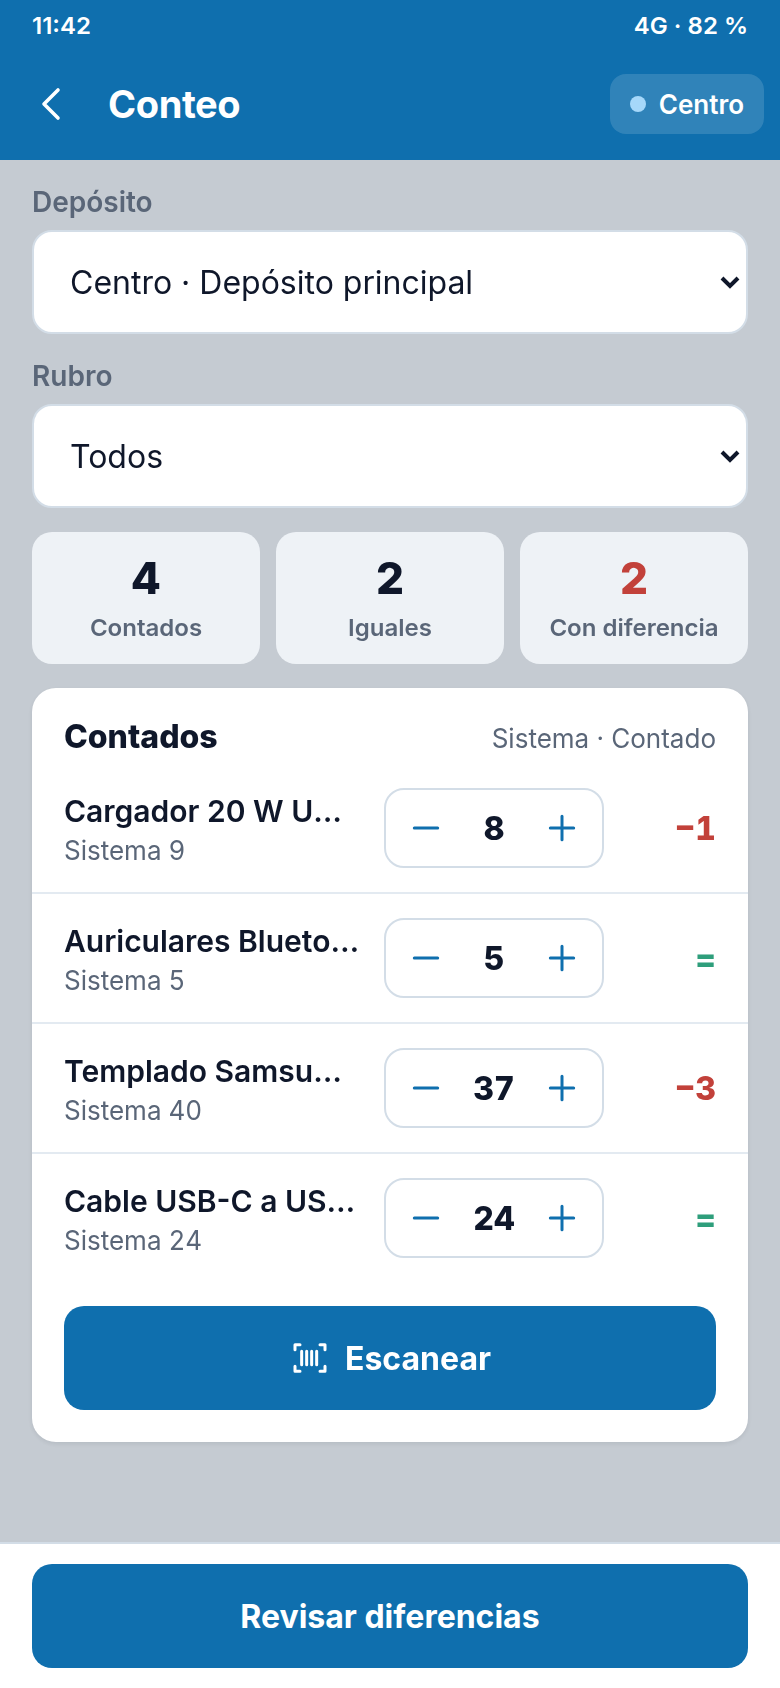
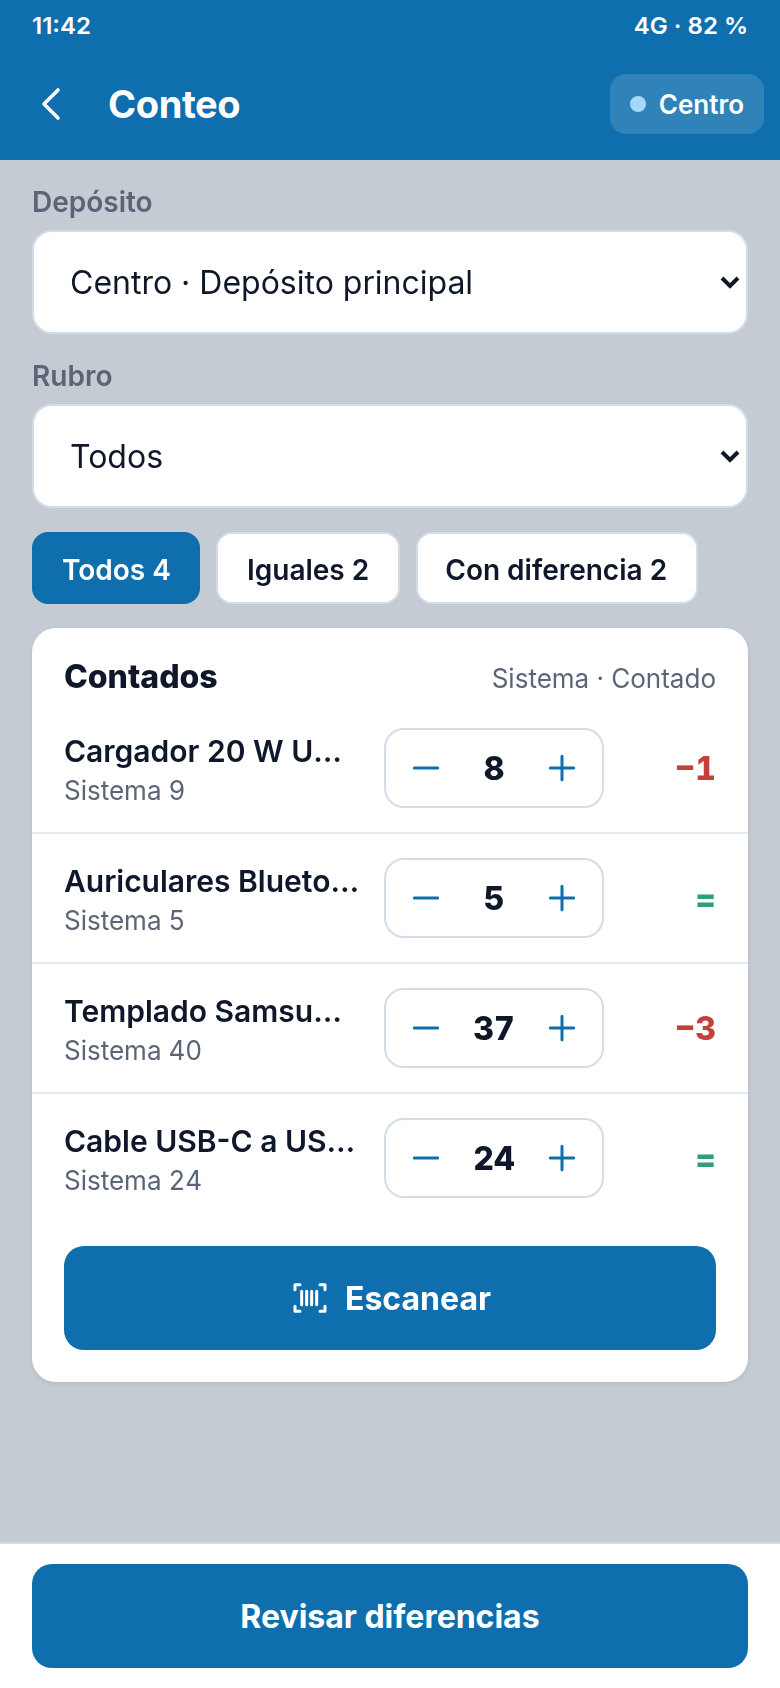
Maqueta cargador: datos de API a la vista, conteo con chips en lugar de tarjetas, accesos del cajero
Claude-Session: https://claude.ai/code/session_01Ke5ZfkRgTyinFjhVPQHDqU

Changed region(s): [[0.0308, 0.3081, 0.9846, 0.8626]]

diff --git a/docs/diseno-cargador/maqueta.html b/docs/diseno-cargador/maqueta.html
@@ -284,7 +284,8 @@ textarea.inp{height:88px;padding:12px 14px;resize:none;font-size:16px}
 .dif-ok{color:var(--verde)}
 
 /* ================= Cargador: piezas nuevas ================= */
-.ctl{width:300px}
+.ctl{width:300px;max-height:calc(100vh - 48px);overflow:auto}
+.idx{max-height:none}
 .idx button{display:flex;align-items:center;gap:6px}
 .idx button span{flex:1}
 .tag{display:inline-flex;align-items:center;height:18px;padding:0 6px;border-radius:4px;font-size:10px;font-weight:800;letter-spacing:.03em;text-transform:uppercase;flex:none}
@@ -353,10 +354,6 @@ textarea.inp{height:88px;padding:12px 14px;resize:none;font-size:16px}
 .ln .nota{margin-top:8px;height:40px;font-size:15px;border-radius:8px}
 .prog{height:8px;border-radius:4px;background:var(--pista);overflow:hidden;margin-top:10px}
 .prog s{display:block;height:100%;background:var(--r1);border-radius:4px}
-.cmp-cc{display:grid;grid-template-columns:repeat(3,1fr);gap:8px;text-align:center}
-.cmp-cc div{background:var(--variante);border-radius:10px;padding:10px 4px}
-.cmp-cc b{display:block;font-size:22px;font-weight:800}
-.cmp-cc span{font-size:12px;color:var(--suave);font-weight:600}
 .dif{font-weight:800;font-size:16px;min-width:44px;text-align:right}
 
 /* QR de la derivación */
@@ -373,6 +370,7 @@ textarea.inp{height:88px;padding:12px 14px;resize:none;font-size:16px}
 /* Accesos de Inicio */
 .accesos{display:grid;grid-template-columns:1fr 1fr;gap:8px}
 .acc{display:flex;flex-direction:column;align-items:flex-start;gap:10px;min-height:92px;padding:14px;background:var(--pieza);border-radius:12px;box-shadow:var(--sombra);text-align:left;position:relative}
+[data-rol="cajero"] .accesos .acc:last-child{grid-column:1/-1}
 .acc b{font-size:15px;font-weight:700}
 .acc .ico{width:36px;height:36px}
 .acc .bd{position:absolute;top:12px;right:12px;min-width:22px;height:22px;border-radius:11px;background:var(--rojo);color:#fff;font-size:12px;font-weight:800;display:grid;place-items:center;padding:0 6px}
@@ -435,8 +433,8 @@ textarea.inp{height:88px;padding:12px 14px;resize:none;font-size:16px}
     <div class="g"><b>Rol</b><div class="seg" data-k="rol"><button data-v="admin" class="on">Dueño</button><button data-v="cajero">Cajero</button></div></div>
     <div class="g"><b>Plataforma</b><div class="seg" data-k="plat"><button data-v="web" class="on">Webapp</button><button data-v="apk">APK</button></div></div>
     <div class="g"><b>Lectura simulada del lector</b><div class="seg tres" data-k="lect"><button data-v="producto" class="on">Producto</button><button data-v="nuevo">Código nuevo</button><button data-v="qr">QR derivación</button></div></div>
-    <div class="g ix"><b>Pantallas</b><div class="idx" id="idx"></div></div>
     <div class="g ix"><b>Datos de esta pantalla</b><ul class="apibox" id="api"></ul></div>
+    <div class="g ix"><b>Pantallas</b><div class="idx" id="idx"></div></div>
   </aside>
 
   <div class="tel" id="tel" data-rol="admin" data-plat="web">
@@ -672,7 +670,7 @@ textarea.inp{height:88px;padding:12px 14px;resize:none;font-size:16px}
       <div class="cu">
         <div class="cmp"><label>Depósito</label><select class="inp" style="font-size:16px"><option>Centro · Depósito principal</option></select></div>
         <div class="cmp"><label>Rubro</label><select class="inp" style="font-size:16px"><option>Todos</option><option>Cargadores</option><option>Cables</option><option>Audio</option></select></div>
-        <div class="cmp-cc"><div><b class="num" data-c-n>0</b><span>Contados</span></div><div><b class="num" data-c-ok>0</b><span>Iguales</span></div><div><b class="num" data-c-dif style="color:var(--rojo)">0</b><span>Con diferencia</span></div></div>
+        <div class="chips" id="chipsC"></div>
         <div class="pz">
           <div class="pz-h"><h3>Contados</h3><span>Sistema · Contado</span></div>
           <div id="lineasC"></div>
@@ -946,9 +944,10 @@ textarea.inp{height:88px;padding:12px 14px;resize:none;font-size:16px}
     let ok = 0, dif = 0;
     const filas = [];
     st.conteo.forEach((c, id) => { const p = P(id); const d = c - p.s; d ? dif++ : ok++;
+      if (st.filtroC === "ok" && d) return; if (st.filtroC === "dif" && !d) return;
       filas.push(`<div class="ln"><span class="tx"><b>${p.n}</b><small class="num">Sistema ${p.s}</small></span><span class="stp"><button data-cq="${id}" data-d="-1" aria-label="Menos"><svg class="i s20"><use href="#menos"/></svg></button><span class="num">${c}</span><button data-cq="${id}" data-d="1" aria-label="Más"><svg class="i s20"><use href="#mas1"/></svg></button></span><span class="dif num" style="color:${d ? (d < 0 ? "var(--rojo)" : "var(--ocre)") : "var(--verde)"}">${d ? (d > 0 ? "+" : "−") + Math.abs(d) : "="}</span></div>`); });
     $("#lineasC").innerHTML = filas.join("") || `<div class="ln"><span class="tx"><small>Sin productos contados</small></span></div>`;
-    $("[data-c-n]").textContent = st.conteo.size; $("[data-c-ok]").textContent = ok; $("[data-c-dif]").textContent = dif;
+    $("#chipsC").innerHTML = [["", "Todos", st.conteo.size], ["ok", "Iguales", ok], ["dif", "Con diferencia", dif]].map(([v, t, n]) => `<button class="chip ${(st.filtroC || "") === v ? "on" : ""}" data-fc="${v}">${t} ${n}</button>`).join("");
     const b = $('[data-go="conteo-revisar"]'); b.toggleAttribute("disabled", !st.conteo.size);
   }
   function pintarRevisar() {
@@ -1060,6 +1059,7 @@ textarea.inp{height:88px;padding:12px 14px;resize:none;font-size:16px}
     const rad = t.closest("[data-radio]");
     if (rad && t.classList.contains("op")) { $$(".op", rad).forEach(o => o.classList.toggle("on", o === t)); if (rad.dataset.radio === "destino") st.destino = t.dataset.v; return; }
     if (t.closest("#chipsP") && t.dataset.f) { st.filtroP = t.dataset.f; pintarProductos(); return; }
+    if (t.dataset.fc !== undefined) { st.filtroC = t.dataset.fc; pintarConteo(); return; }
     if (t.dataset.fd !== undefined) { st.filtroD = t.dataset.fd; pintarDerivaciones(); return; }
     if (t.dataset.aviso) { toast(t.dataset.aviso); return; }
     if (t.dataset.prod) { verProducto(+t.dataset.prod); return; }
